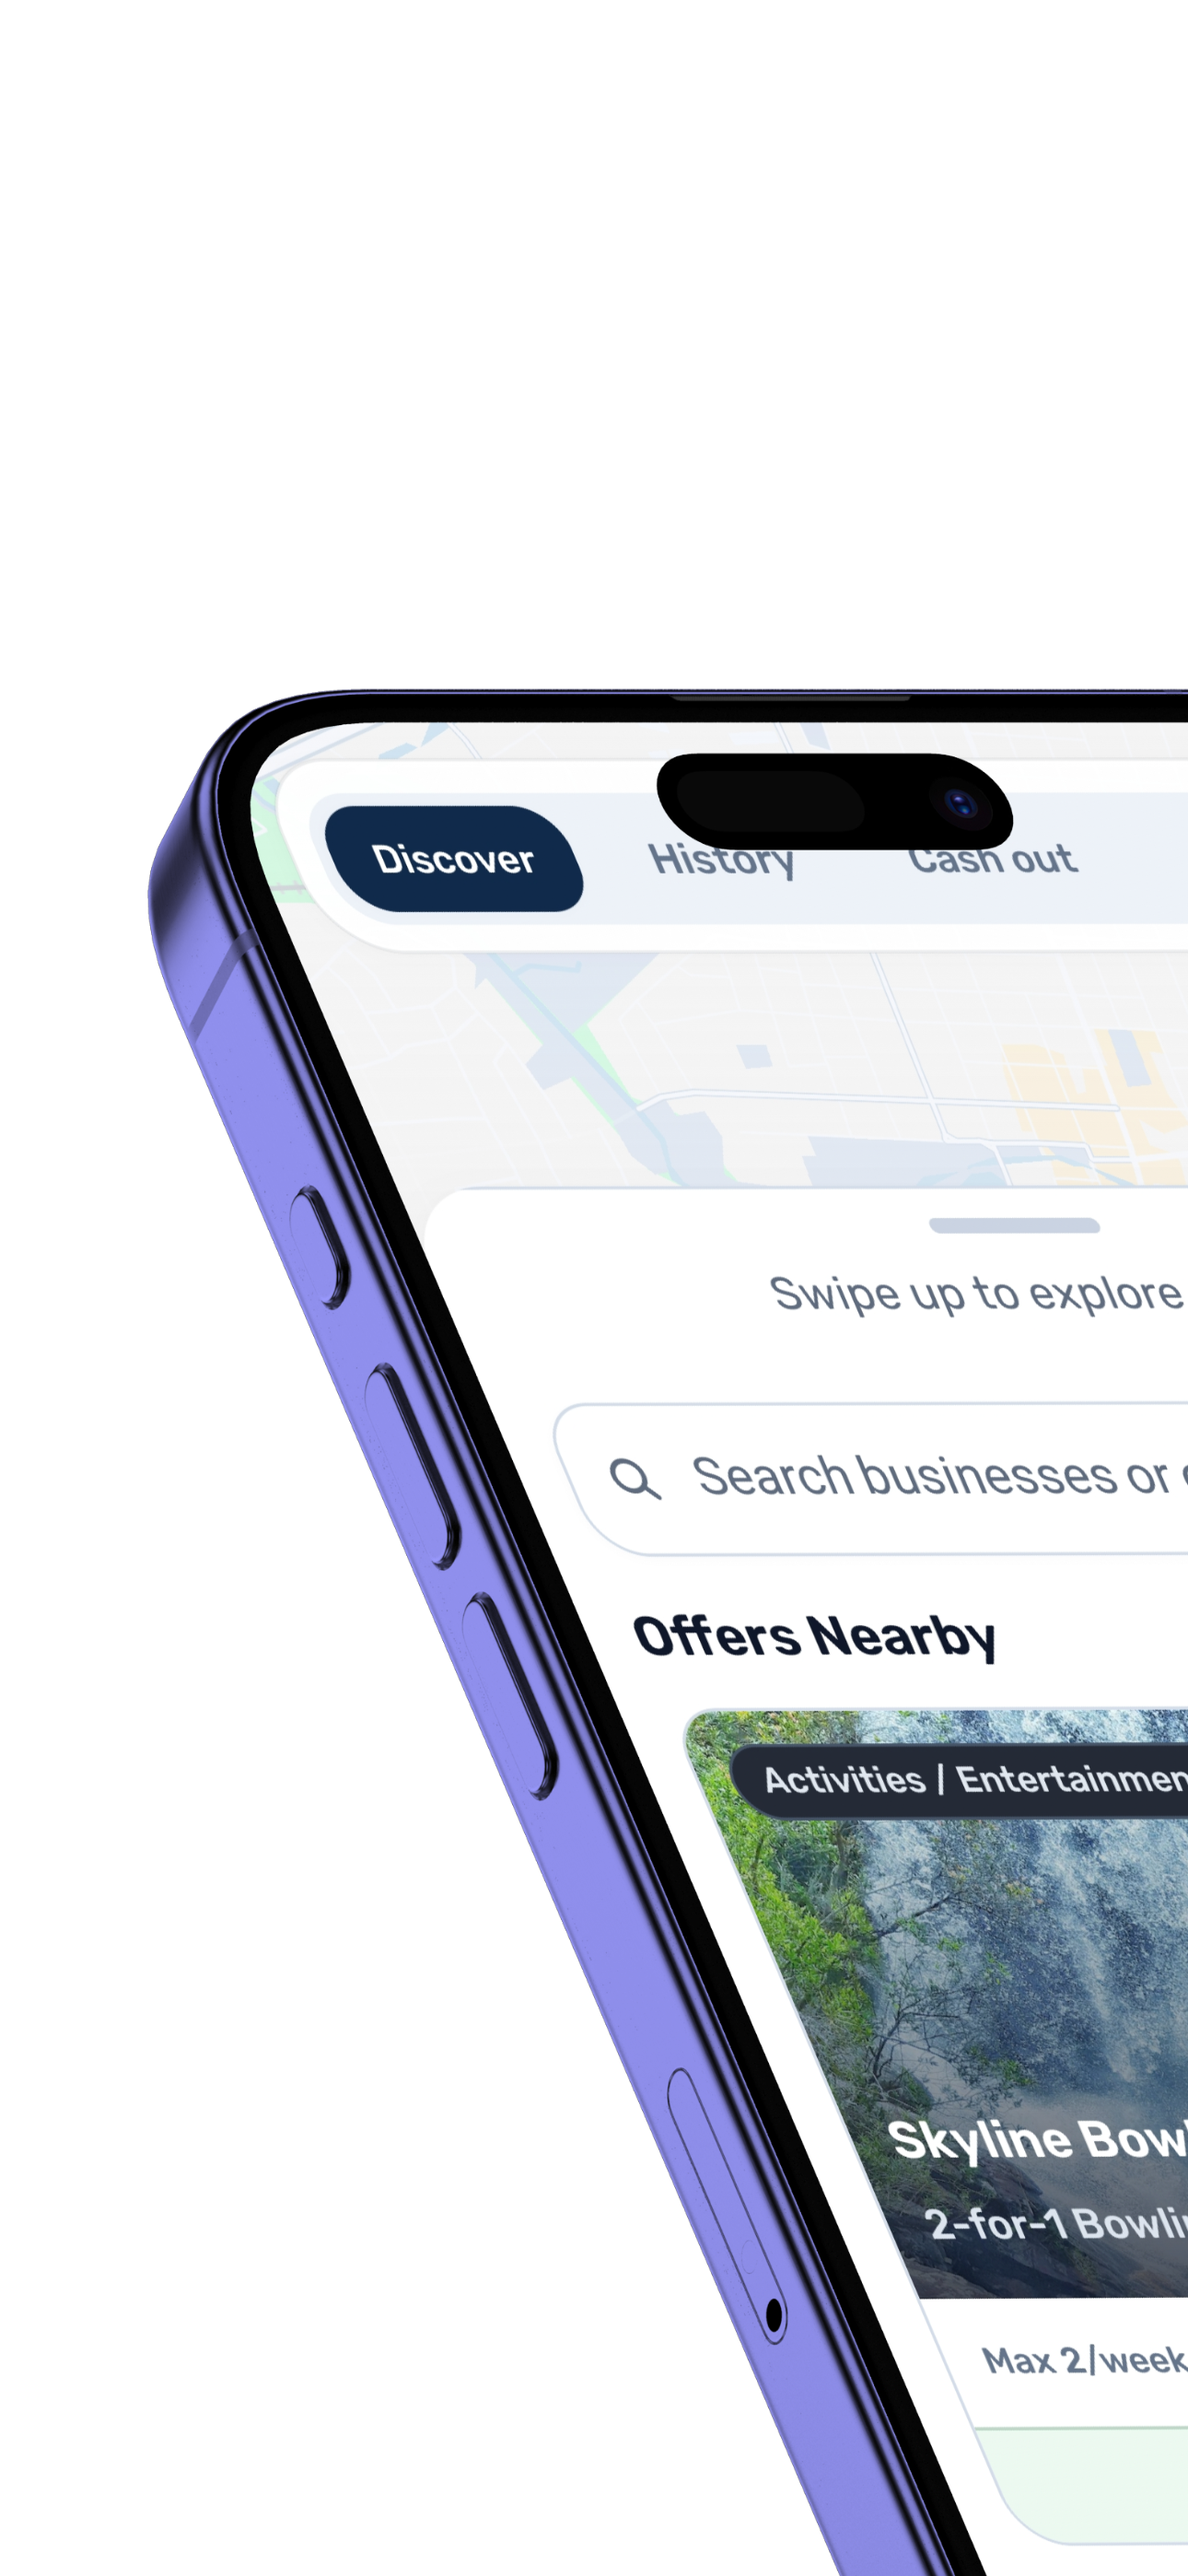
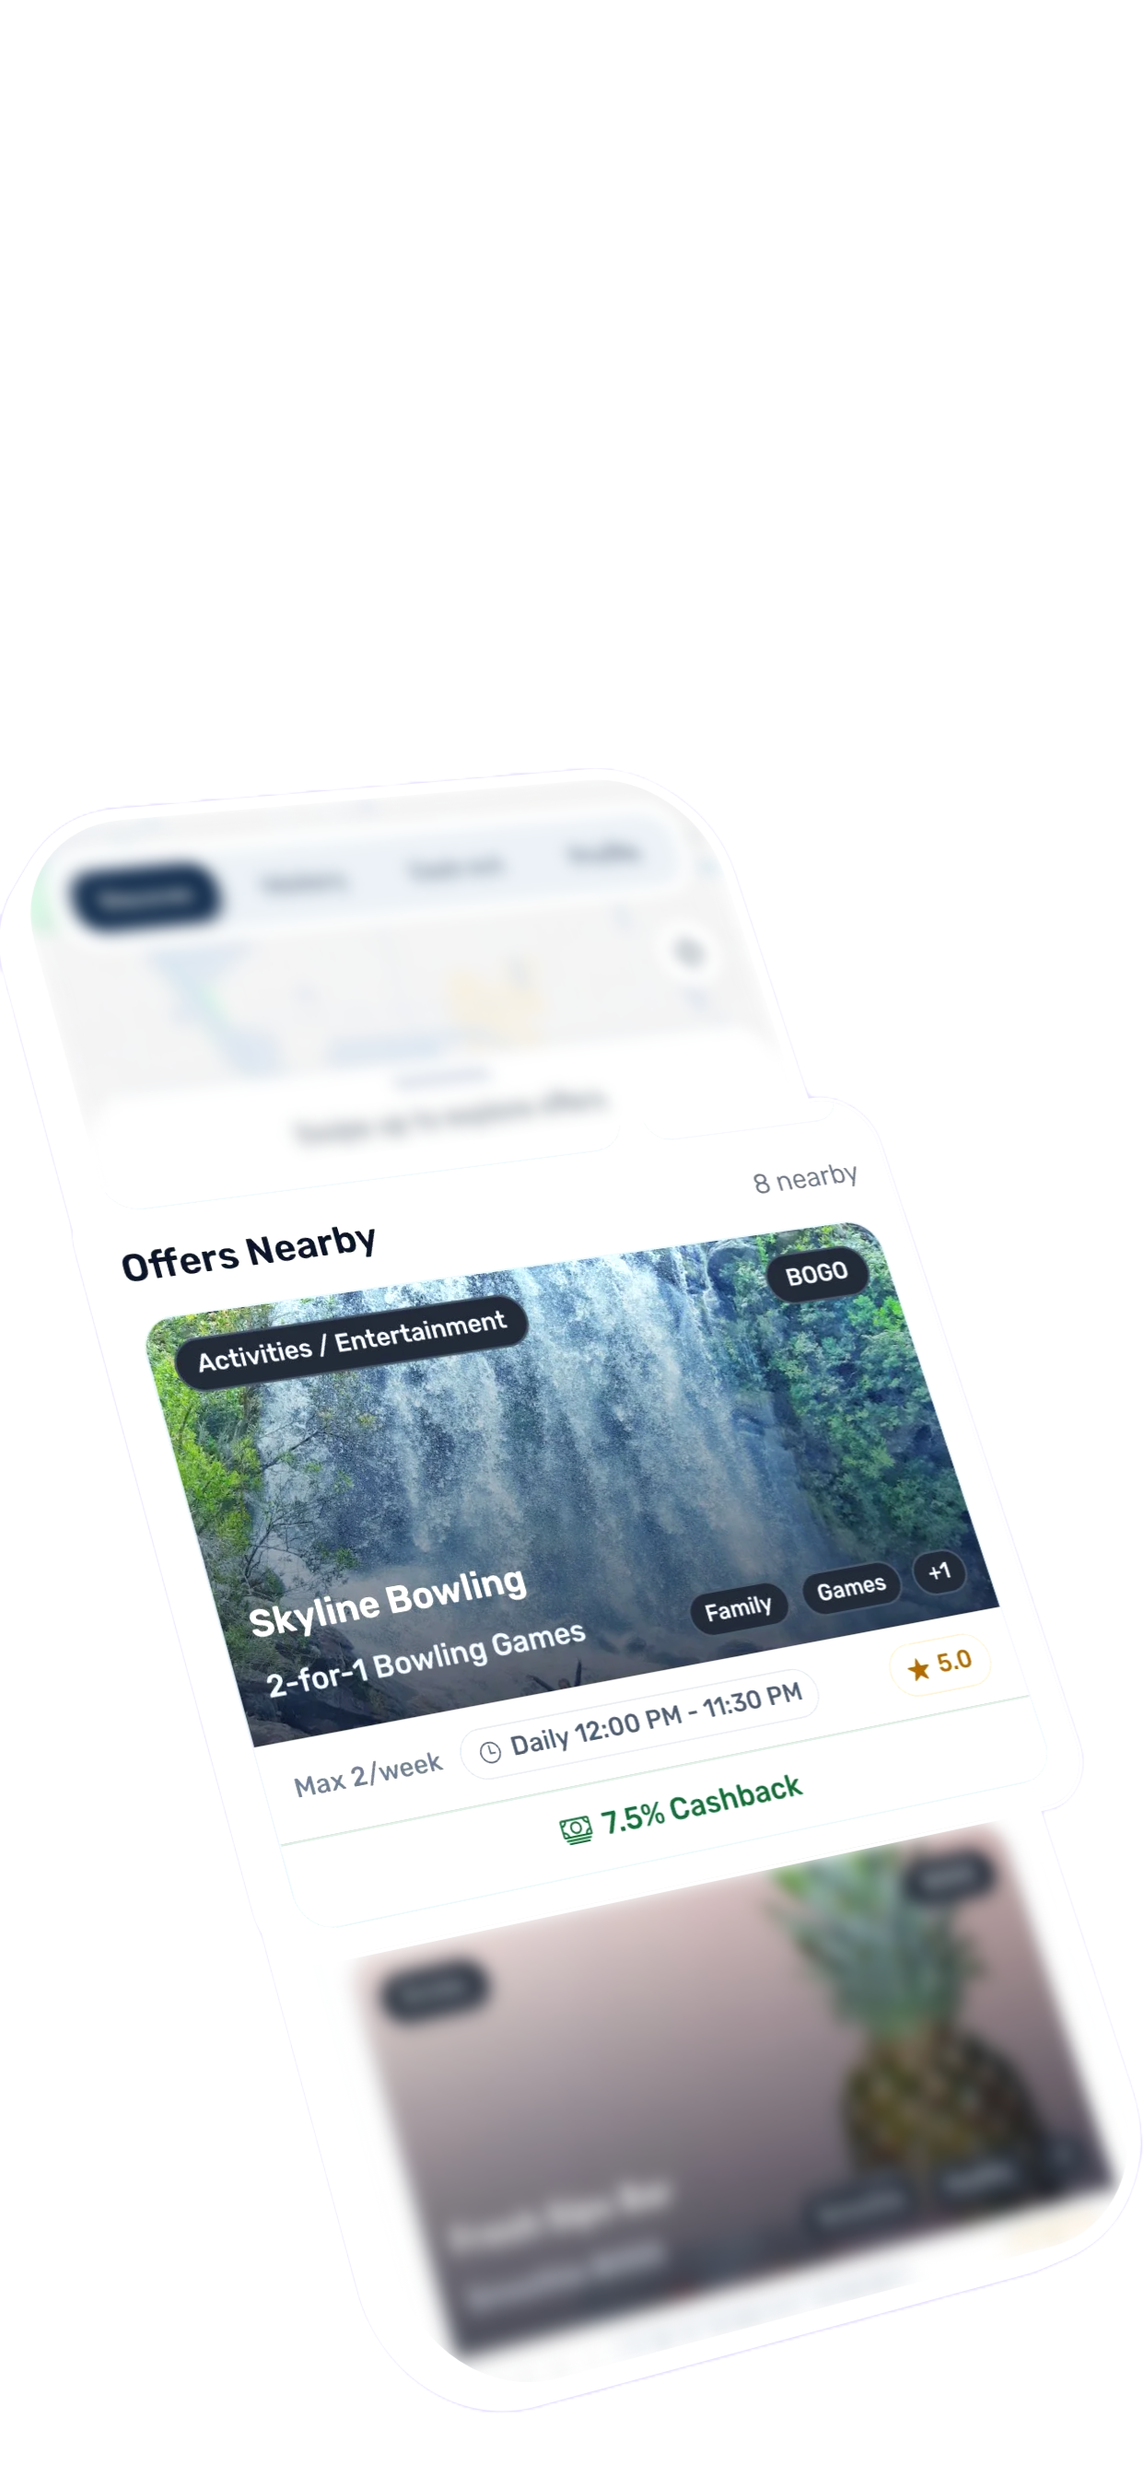
phone photo

diff --git a/supabase/functions/stripe-create-cashout-link/index.ts b/supabase/functions/stripe-create-cashout-link/index.ts
@@ -16,13 +16,8 @@ const SUPABASE_ANON_KEY =
   Deno.env.get("EDGE_SUPABASE_ANON_KEY") ??
   "";
 const STRIPE_SECRET_KEY = Deno.env.get("STRIPE_SECRET_KEY") ?? "";
-const CONNECT_REFRESH_URL =
-  Deno.env.get("STRIPE_CONNECT_REFRESH_URL") ?? "";
-const CONNECT_RETURN_URL =
-  Deno.env.get("STRIPE_CONNECT_RETURN_URL") ?? "";
-const CONNECT_BUSINESS_PROFILE_URL =
-  Deno.env.get("STRIPE_CONNECT_BUSINESS_PROFILE_URL") ??
-  "https://www.wellopartners.com";
+const CONNECT_REFRESH_URL = Deno.env.get("STRIPE_CONNECT_REFRESH_URL") ?? "";
+const CONNECT_RETURN_URL = Deno.env.get("STRIPE_CONNECT_RETURN_URL") ?? "";
 const CONNECT_ALLOWED_REDIRECT_PREFIXES = [
   "https://www.wellopartners.com",
   "https://wellopartners.com",
@@ -69,39 +64,78 @@ const decodeJwtHeader = (token: string) => {
 };
 
 const normalizeSpace = (value: unknown) =>
-  String(value || "").trim().replace(/\s+/g, " ");
+  String(value || "")
+    .trim()
+    .replace(/\s+/g, " ");
 
-const buildIndividualPrefill = (fullName: unknown) => {
+const buildIndividualPrefill = (fullName: unknown, email?: unknown) => {
   const normalized = normalizeSpace(fullName);
-  if (!normalized) return null;
-  const parts = normalized.split(" ").filter(Boolean);
-  if (!parts.length) return null;
+  const emailValue = normalizeSpace(email);
+  const parts = normalized ? normalized.split(" ").filter(Boolean) : [];
   const firstName = parts[0] || "";
   const lastName = parts.slice(1).join(" ").trim();
-  const individual: { first_name?: string; last_name?: string } = {};
+  const individual: { first_name?: string; last_name?: string; email?: string } =
+    {};
   if (firstName) individual.first_name = firstName;
   if (lastName) individual.last_name = lastName;
+  if (emailValue) individual.email = emailValue;
   return Object.keys(individual).length ? individual : null;
 };
 
 const buildConnectPrefill = (profile: {
   full_name?: string | null;
   email?: string | null;
+  auth_full_name?: string | null;
+  auth_email?: string | null;
 }) => {
-  const email = normalizeSpace(profile?.email);
-  const individual = buildIndividualPrefill(profile?.full_name);
-  const businessProfileUrl = normalizeSpace(CONNECT_BUSINESS_PROFILE_URL);
+  const email = normalizeSpace(profile?.email || profile?.auth_email);
+  const fullName = normalizeSpace(profile?.full_name || profile?.auth_full_name);
+  const individual = buildIndividualPrefill(fullName, email);
   const prefill: {
     email?: string;
-    individual?: { first_name?: string; last_name?: string };
-    business_profile?: { url: string };
+    individual?: { first_name?: string; last_name?: string; email?: string };
   } = {};
   if (email) prefill.email = email;
   if (individual) prefill.individual = individual;
-  if (businessProfileUrl) {
-    prefill.business_profile = { url: businessProfileUrl };
-  }
   return prefill;
+};
+
+const requiresConsumerCashoutAccountReplacement = async (accountId: string) => {
+  try {
+    const account = await stripe.accounts.retrieve(accountId);
+    const cardPaymentsCapability = String(
+      account?.capabilities?.card_payments || "",
+    ).toLowerCase();
+    // If card_payments was requested/active on a consumer cashout account,
+    // Stripe may continue showing merchant-oriented onboarding prompts.
+    return cardPaymentsCapability === "active" || cardPaymentsCapability === "pending";
+  } catch {
+    // If retrieval fails, keep the existing account path to avoid hard failure.
+    return false;
+  }
+};
+
+const createConsumerCashoutAccount = async (
+  userId: string,
+  connectPrefill: ReturnType<typeof buildConnectPrefill>,
+) => {
+  return await stripe.accounts.create({
+    type: "express",
+    country: "US",
+    default_currency: "usd",
+    business_type: "individual",
+    ...(connectPrefill.email ? { email: connectPrefill.email } : {}),
+    ...(connectPrefill.individual
+      ? { individual: connectPrefill.individual }
+      : {}),
+    metadata: {
+      purpose: "consumer_cashout",
+      user_id: userId,
+    },
+    capabilities: {
+      transfers: { requested: true },
+    },
+  });
 };
 
 const normalizeConnectRedirectUrl = (value: unknown) => {
@@ -159,7 +193,9 @@ serve(async (req) => {
     }
 
     const authHeader =
-      req.headers.get("Authorization") ?? req.headers.get("authorization") ?? "";
+      req.headers.get("Authorization") ??
+      req.headers.get("authorization") ??
+      "";
     const bodyAccessToken =
       typeof body?.accessToken === "string"
         ? body.accessToken
@@ -231,6 +267,14 @@ serve(async (req) => {
       );
     }
     const userId = authData.user.id;
+    const authEmail = normalizeSpace(authData.user.email);
+    const authMetadata = (authData.user.user_metadata || {}) as Record<
+      string,
+      unknown
+    >;
+    const authFullName = normalizeSpace(
+      authMetadata.full_name || authMetadata.name || "",
+    );
     if (!userId) {
       return new Response(
         JSON.stringify({
@@ -253,44 +297,44 @@ serve(async (req) => {
       });
     }
 
-    const connectPrefill = buildConnectPrefill(profile);
+    const connectPrefill = buildConnectPrefill({
+      full_name: profile.full_name,
+      email: profile.email,
+      auth_full_name: authFullName || null,
+      auth_email: authEmail || null,
+    });
     let accountId = profile.stripe_cashout_account_id;
     if (!accountId) {
-      const account = await stripe.accounts.create({
-        type: "express",
-        country: "US",
-        default_currency: "usd",
-        business_type: "individual",
-        ...(connectPrefill.email ? { email: connectPrefill.email } : {}),
-        ...(connectPrefill.individual
-          ? { individual: connectPrefill.individual }
-          : {}),
-        ...(connectPrefill.business_profile
-          ? { business_profile: connectPrefill.business_profile }
-          : {}),
-        metadata: {
-          purpose: "consumer_cashout",
-          user_id: userId,
-        },
-        capabilities: {
-          transfers: { requested: true },
-        },
-      });
+      const account = await createConsumerCashoutAccount(userId, connectPrefill);
       accountId = account.id;
       await supabase
         .from("profiles")
         .update({ stripe_cashout_account_id: accountId })
         .eq("id", userId);
     } else {
+      const shouldReplaceAccount = await requiresConsumerCashoutAccountReplacement(
+        accountId,
+      );
+      if (shouldReplaceAccount) {
+        const replacement = await createConsumerCashoutAccount(
+          userId,
+          connectPrefill,
+        );
+        accountId = replacement.id;
+        await supabase
+          .from("profiles")
+          .update({ stripe_cashout_account_id: accountId })
+          .eq("id", userId);
+      }
+
       const accountUpdates: Stripe.AccountUpdateParams = {};
+      accountUpdates.capabilities = {
+        card_payments: { requested: false },
+        transfers: { requested: true },
+      };
       if (connectPrefill.email) accountUpdates.email = connectPrefill.email;
       if (connectPrefill.individual) {
         accountUpdates.individual = connectPrefill.individual;
-      }
-      if (connectPrefill.business_profile?.url) {
-        accountUpdates.business_profile = {
-          url: connectPrefill.business_profile.url,
-        };
       }
       if (Object.keys(accountUpdates).length > 0) {
         try {

diff --git a/App.js b/App.js
@@ -75,6 +75,7 @@ import {
   supabase,
   refreshSupabaseClient,
   getAccessTokenWithFallback,
+  getStoredSession,
   refreshAccessTokenWithRefreshToken,
   clearSupabaseSession,
 } from "./lib/supabase";
@@ -681,7 +682,7 @@ const BUSINESS_ANALYTICS = {
 };
 const DEFAULT_ANALYTICS = { views: 0, saves: 0, redemptions: 0, reach: "0" };
 
-const USE_FAKE_LOCATION = true;
+const USE_FAKE_LOCATION = false;
 const DEFAULT_MAP_REGION = {
   latitude: 40.7128,
   longitude: -74.006,
@@ -5221,7 +5222,17 @@ export default function App() {
   useEffect(() => {
     let isMounted = true;
     const safetyTimer = setTimeout(() => {
-      if (isMounted) setSessionReady(true);
+      if (!isMounted) return;
+      getStoredSession()
+        .then((stored) => {
+          // Avoid flashing signed-out UI when a stored session exists but
+          // Supabase session hydration is still in flight.
+          if (!isMounted || stored?.session?.access_token) return;
+          setSessionReady(true);
+        })
+        .catch(() => {
+          if (isMounted) setSessionReady(true);
+        });
     }, 4000);
     const loadSession = async () => {
       try {
@@ -5234,11 +5245,27 @@ export default function App() {
           return;
         }
         const tokenResult = await getAccessTokenWithFallback(8000);
-        const session = tokenResult.session;
+        let session = tokenResult.session;
+        let sessionUser = session?.user || null;
+        if (!sessionUser?.id && tokenResult.accessToken) {
+          try {
+            const userResult = await withTimeout(
+              supabase.auth.getUser(tokenResult.accessToken),
+              6000,
+              "auth.getUser",
+            );
+            sessionUser = userResult?.data?.user || null;
+            if (sessionUser?.id) {
+              session = { ...(session || {}), user: sessionUser };
+            }
+          } catch {
+            // Keep fallback behavior below.
+          }
+        }
         if (!isMounted) return;
-        if (session?.user) {
-          const nextRole = await hydrateProfile(session.user);
-          const stillActive = await hasActiveSessionForUser(session.user.id);
+        if (sessionUser?.id) {
+          const nextRole = await hydrateProfile(sessionUser);
+          const stillActive = await hasActiveSessionForUser(sessionUser.id);
           if (!isMounted || !stillActive) return;
           setIsSignedIn(true);
           if (nextRole === "consumer") {

diff --git a/supabase/functions/plaid-verify-purchase/index.ts b/supabase/functions/plaid-verify-purchase/index.ts
@@ -21,8 +21,7 @@ const PENDING_COPY =
   "Cashback may appear as pending while verification completes.";
 const AUTO_COPY =
   "Cashback is automatically verified when purchases are visible through your linked bank.";
-const PLAID_ENV = (Deno.env.get("PLAID_ENV") ?? "sandbox").toLowerCase();
-const IDENTITY_ENFORCED = PLAID_ENV !== "sandbox";
+const IDENTITY_ENFORCED = true;
 const STRIPE_SECRET_KEY = Deno.env.get("STRIPE_SECRET_KEY") ?? "";
 const stripe = STRIPE_SECRET_KEY
   ? new Stripe(STRIPE_SECRET_KEY, { apiVersion: "2024-06-20" })
@@ -783,7 +782,6 @@ serve(async (req) => {
       });
     }
 
-    let identityCheckBypassedSandbox = false;
     const { data: profile } = await supabase
       .from("profiles")
       .select("full_name")
@@ -840,9 +838,6 @@ serve(async (req) => {
             fallbackRequired: true,
             fallbackMessage: FALLBACK_COPY,
           });
-        }
-        if (!hasNameOverlap && !IDENTITY_ENFORCED) {
-          identityCheckBypassedSandbox = true;
         }
       }
     }
@@ -999,9 +994,7 @@ serve(async (req) => {
       source: "plaid",
       status: "confirmed",
       reason_code: null,
-      reason_detail: identityCheckBypassedSandbox
-        ? "Matched posted transaction (sandbox identity mismatch bypassed)."
-        : "Matched posted transaction.",
+      reason_detail: "Matched posted transaction.",
       receipt_upload_id: receiptUpsert.id,
       expected_amount_cents: expectedAmountCents,
       matched_amount_cents: selected.amountCents,
@@ -1016,7 +1009,7 @@ serve(async (req) => {
     });
     await insertAttempt(
       "matched_posted",
-      identityCheckBypassedSandbox ? "identity_check_bypassed_sandbox" : null,
+      null,
       {
       verificationId: verification?.id || null,
       candidateCount: allCandidates.length,

diff --git a/supabase/functions/_shared/plaid.ts b/supabase/functions/_shared/plaid.ts
@@ -2,7 +2,7 @@ import { HttpError } from "./auth.ts";
 
 const PLAID_CLIENT_ID = Deno.env.get("PLAID_CLIENT_ID") ?? "";
 const PLAID_SECRET = Deno.env.get("PLAID_SECRET") ?? "";
-const PLAID_ENV = (Deno.env.get("PLAID_ENV") ?? "sandbox").toLowerCase();
+const PLAID_ENV = (Deno.env.get("PLAID_ENV") ?? "production").toLowerCase();
 const PLAID_CLIENT_NAME = Deno.env.get("PLAID_CLIENT_NAME") ?? "Wello";
 const PLAID_COUNTRY_CODES = Deno.env.get("PLAID_COUNTRY_CODES") ?? "US";
 const PLAID_WEBHOOK_URL = Deno.env.get("PLAID_WEBHOOK_URL") ?? "";
@@ -16,12 +16,11 @@ const PLAID_REQUEST_TIMEOUT_MS = Math.max(
 
 const PLAID_BASE_URL = (() => {
   switch (PLAID_ENV) {
-    case "production":
-      return "https://production.plaid.com";
     case "development":
       return "https://development.plaid.com";
+    case "production":
     default:
-      return "https://sandbox.plaid.com";
+      return "https://production.plaid.com";
   }
 })();
 

diff --git a/site/stripe/refresh/index.html b/site/stripe/refresh/index.html
@@ -47,7 +47,7 @@
         var deepLink = "wello://auth/callback?flow=stripe_refresh";
         var fallbackNote = document.getElementById("fallback-note");
         function openApp() {
-          window.location.href = deepLink;
+          window.location.replace(deepLink);
         }
         setTimeout(openApp, 120);
         setTimeout(function () {

diff --git a/site/stripe/return/index.html b/site/stripe/return/index.html
@@ -46,7 +46,7 @@
         var deepLink = "wello://auth/callback?flow=stripe_return";
         var fallbackNote = document.getElementById("fallback-note");
         function openApp() {
-          window.location.href = deepLink;
+          window.location.replace(deepLink);
         }
         setTimeout(openApp, 120);
         setTimeout(function () {

diff --git a/site/styles.css b/site/styles.css
@@ -3043,7 +3043,7 @@ body.home-v2 .v2-hero-media {
 body.home-v2 .v2-hero-media-track {
   display: grid;
   grid-template-columns: repeat(2, minmax(0, 1fr));
-  gap: 2px;
+  gap: 5px;
 }
 
 body.home-v2 .v2-section {
